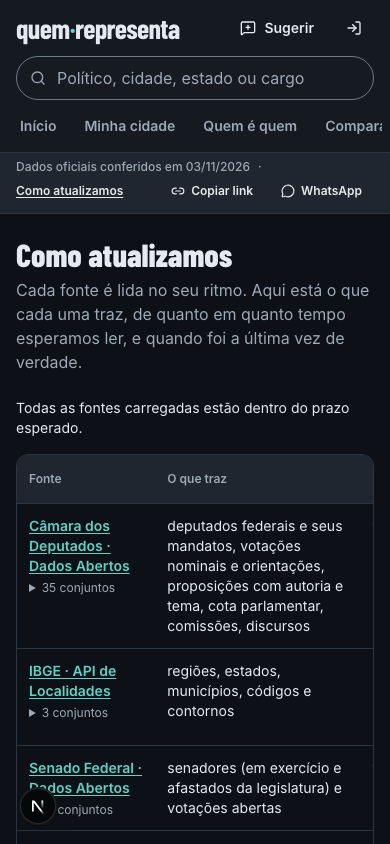
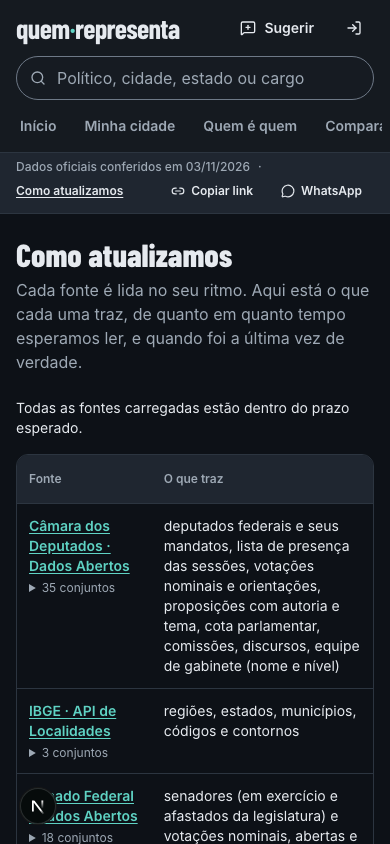
docs W1a: BUG-012, D20-D21 e pendências do front

Changed region(s): [[0.4, 0.6161, 0.9231, 1.0], [0.0615, 0.7701, 0.3692, 1.0], [0.4308, 0.5545, 0.5846, 0.5853]]

diff --git a/replica/bugs.md b/replica/bugs.md
@@ -232,7 +232,23 @@ Expected: 390.
 Actual: 515 (S24) e 673 (S23). Nenhum elemento visível passa da borda: os culpados são `<span class="sr-only">` (position: absolute) dentro das células; sem um ancestral posicionado, eles escapam do `overflow-x-auto` da região da tabela.
 Evidence: sonda de `getBoundingClientRect` por elemento; os testes `@mobile` do projeto Pixel 7 passavam porque comparavam `scrollWidth` com `innerWidth`, e na emulação de celular o viewport se alarga junto com o conteúdo.
 Suspected cause: `sr-only` absoluto fora do contêiner de rolagem.
-Status: fixed (região da tabela é `relative`). Os specs `w1a-*` comparam `scrollWidth` com 390 fixo. Os specs antigos (`shell-directory` SH-E2, `f01-core-loop` F01-E6) ainda comparam com `innerWidth` e podem deixar passar o mesmo defeito: dívida de teste, não corrigida neste lote.
+Status: fixed (região da tabela é `relative`). Os specs `w1a-*` comparam `scrollWidth` com 390 fixo. Os specs antigos (SH-E2, F01-E6, F03) também passaram a comparar com 390 fixo e isso revelou o BUG-012.
+
+### BUG-012: listas de pessoas e tabela de comparação estouram 390 px (rolagem horizontal da página)
+
+- Severity: S3 (regra de produto "sem rolagem horizontal em 390 px" quebrada em telas centrais)
+- Flow / case: F01, F04 / SH-E2, F01-E6 (passavam por checagem fraca)
+- Screen: S04, S07, S08, S12 (lista de pessoas e comparação)
+- Build: build 4 e anterior · Chromium 390 px, dados reais
+
+Steps
+1. Abrir /quem, /representantes?cidade=3509502 e /comparar?p=a,b em 390 px e ler `document.documentElement.scrollWidth`.
+
+Expected: 390.
+Actual: 541 (/quem), 456 (cidade), 446 e 437 (/comparar).
+Evidence: sonda de `getBoundingClientRect`: itens `li` de `ul.grid` sem coluna base passam da borda; na comparação o culpado é `sr-only` absoluto dentro da região rolável (mesma causa do BUG-011).
+Suspected cause: `ul class="grid gap-2 sm:grid-cols-2"` sem `grid-cols-1`: a coluna implícita é `auto` e cresce com o nome mais longo (`truncate` não corta sem `min-width: 0`). Os specs comparavam `scrollWidth` com `innerWidth`, que na emulação de celular se alarga junto com o conteúdo.
+Status: fixed (`grid-cols-1` em 9 grades; `relative` nas 5 regiões roláveis restantes); SH-E2 agora também cobre /sobre, /atualizacoes, /dados-abertos e /congresso.
 
 ## A conferir (não reproduzido como bug)
 
@@ -241,4 +257,4 @@ Status: fixed (região da tabela é `relative`). Os specs `w1a-*` comparam `scro
 - "Carreira" maior que a soma dos anos é esperado quando há fato fora dos anos de mandato no banco (matérias do senador antes de 2019, nota da cota com data fora do mandato). O `check` agora compara a carreira com o total direto da fonte (BUG-001 continua coberto).
 - ~~Senado: a API por senador marca 77 de 93 votações de 2025 como secretas.~~ Resolvido (D39): `/votacao` traz 128 votações em 2025 (abertas e secretas).
 - F01-E1 esperava exatamente 4 homônimos "Bom Jesus"; com os dados reais há 5 exatos (PI, PB, RN, RS, SC) mais "Bom Jesus da…". O teste passou a exigir pelo menos 4 e as 4 UFs; ajuste de teste, não de produto.
-- Hidratação (React #418 / "Hydration failed") apareceu de novo em crachá e em /representantes?cidade= no dev server 3101, em 3 de ~25 cargas dos specs de F04/F05/F06. Mesmo padrão do BUG-008; não relacionado às mudanças do build 5 (o diff aponta `Container`/`PageHeader` da lista de cidade). Segue aberto.
+- Hidratação (React #418 / "Hydration failed") apareceu de novo em crachá e em /representantes?cidade= no dev server 3101, em 3 de ~25 cargas dos specs de F04/F05/F06. Mesmo padrão do BUG-008; não isolado (não rodei um controle sem as mudanças do build 5) (o diff aponta `Container`/`PageHeader` da lista de cidade). Segue aberto.

diff --git a/replica/decisions.md b/replica/decisions.md
@@ -44,3 +44,5 @@ Rodada autônoma autorizada pelo dono do projeto: diff full stack contra politic
 - **D17 · nomes de menu.** "Como funciona" virou "Metodologia e fontes" e "Novidades" virou "Como atualizamos" (rótulos próprios, alinhados ao conteúdo). O link do topo do site ("Como atualizamos") aponta para `/atualizacoes`.
 - **D18 · testes tocados fora do escopo, só para a suíte fechar.** `fixtures.ts` ganhou `eslint-disable react-hooks/rules-of-hooks` (o `use` do Playwright não é o hook do React; o lint estava vermelho antes do lote); `eslint.config.mjs` ignora `playwright-report/`, `test-results/` e `.next-e2e/`; F01-E1 deixou de exigir exatamente 4 homônimos (dados reais têm 5 + "Bom Jesus da…"); SH-H1 repete o clique no tema até a hidratação (a página de destino ficou pesada em dev); selects do diretório por `select[name=…]` (o novo campo de busca tem "cargo" e "estado" no nome acessível); o teste de stubs passou a olhar `/ajudar` (S26) e `/propostas` (S13), que ainda são stubs.
 - **D19 · `schema.sql` entrou no git por acidente.** O arquivo `replica/schema.sql` (snapshot do esquema) estava sem versionar e foi junto no commit do direito de resposta. Fica versionado; já reflete o tipo novo.
+- **D20 · `/sobre` segue o ETL, não o `backend.md`.** Contexto: o texto de presença foi escrito a partir de `backend.md` (presença derivada de voto) e ficou desatualizado pelas decisões D30, D31 e D39 do lote de dados. Decisão: `#presenca` descreve a lista oficial da Câmara e o Senado sem presença; as listas de "o que traz" (sobre e S24) citam equipe de gabinete sem salário e campanha somada por categoria sem doador (D36, D40). Teste de `/sobre` falha se a regra antiga voltar. Regra para o próximo lote: mudou regra de dado, muda `/sobre#presenca` no mesmo commit.
+- **D21 · privacidade só promete o que roda.** A limpeza de nome e e-mail 12 meses após resolver NÃO é automática (backend.md, "Falta"); `/sobre#s-priv` diz isso e que será ligada antes da publicação. O `ip_hash` fica na linha da mensagem enquanto ela existir (só a consulta de limite olha a última hora). Pendência no build-log.

diff --git a/replica/build-log.md b/replica/build-log.md
@@ -115,3 +115,5 @@ Revalidação: `REVALIDATE_URL` não está no ambiente do ETL; o app pega o dado
 | S02 onboarding | 2026-11-03 | done | "Como cobrar" (metade do item 11, fica para o próximo lote) | cookie injetado por `storageState` para os 50+ testes antigos não serem bloqueados pelo modal |
 
 Entregas: 7 commits `build5 W1a`, 1 migração (`0005`), 8 specs novos `web/e2e/w1a-*.spec.ts`. Capturas em `replica/clone-screens/` (S22, S23, S24, S03, S02, S05-direito-resposta; 1440 e 390 px, claro e escuro). Nota de feature: 62,4 → 71,4 (`tools/parity.py`).
+
+Pendências desta rodada (front): (1) job de anonimização das sugestões após 12 meses (`/sobre#s-priv` já diz que não é automático); (2) lista de provedores de dado pessoal em `/sobre` quando houver endereço público; (3) "Como cobrar" (metade do item 11); (4) matriz S23 só tem informação quando o ETL municipal conferir cidades; (5) header fixo de 390 px ocupa ~150 px (busca + abas): avaliar recolher as abas ao rolar.
